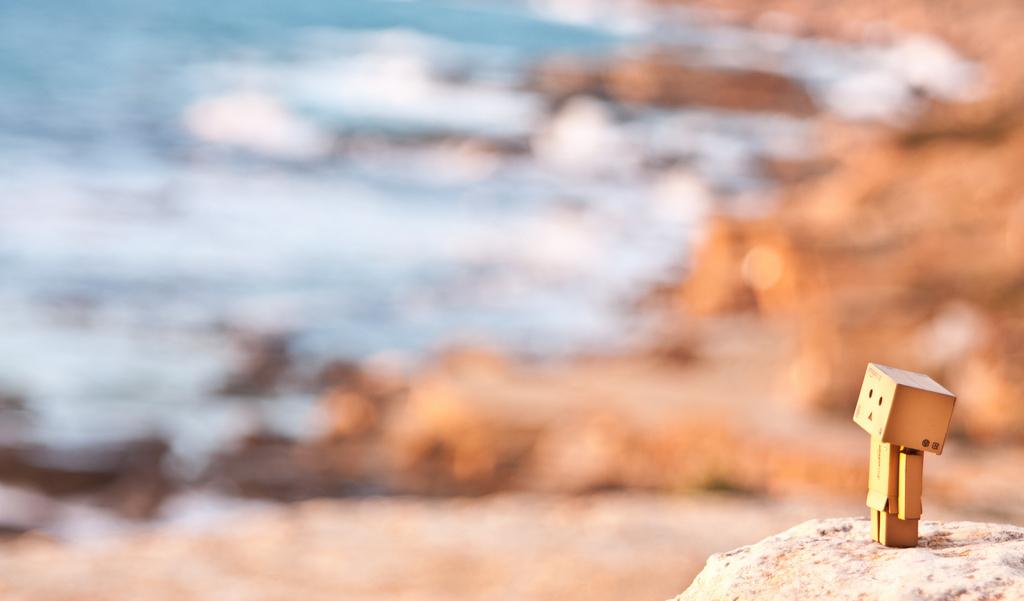
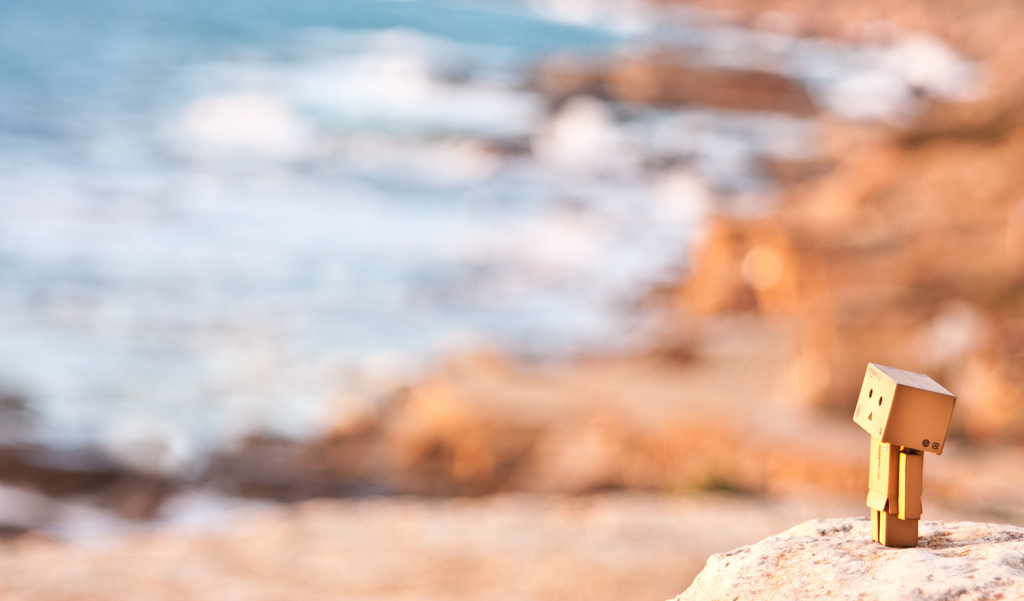
templates/usher/sign_up: change the beg text
Clarify our text on why we are asking for money, even though we suck.

I also lightened up the image a bit to make it easier to read.

Changed region(s): [[0.0312, 0.4493, 0.4688, 0.8087], [0.0625, 0.1797, 0.4688, 0.2995]]

diff --git a/templates/usher/sign_up.html b/templates/usher/sign_up.html
@@ -45,11 +45,19 @@
           <div class="span6 offset1">
             <h1>Almost done!</h1>
             <p>Our squirrels are importing your Google Reader feeds as we speak.</p>
-            <p><b>Why are you charging money?</b></p>
+            <p><b>Why do you need my credit card?</b></p>
 
-            <p>Your most precious resources are your time and attention. By
-            paying for ReadRaven, you are signing up for a service that is
-            built to last and built to protect your privacy.</p>
+            <p>ReadRaven is free during our beta period, which will last until
+            we are no longer embarrassed with our feature set and the slowness
+            of our site. And right now, we know we're kinda sucky. Trust us,
+            we know.</p>
+
+            <p>But just as we are making a long-term commitment to you,
+            we're asking for a small bit of reciprocity, letting us know you
+            share our values and long-term vision.</p>
+
+            <p>Your most precious resources are your time and attention.
+            ReadRaven is designed to preserve them for you, forever.</p>
 
             <p><a href="{%url 'raven.views.values' %}"><b>Read more about our values »</b></a></p>
             <br>

diff --git a/static/css/usher2.css b/static/css/usher2.css
@@ -12,21 +12,21 @@ body#index {
         position: static;
         left: -2px;
         top: 0px;
-        background-color: rgba(240,240,240,0.3);
+        background-color: rgba(240,240,240,0.5);
         margin-top: 5%;
         padding: 50px 40px;
     }
-        body#index div.page-wrapper div.container-fluid {
-            padding-right: 20px;
-            padding-left: 20px;
-        }
+    body#index div.page-wrapper div.container-fluid {
+        padding-right: 20px;
+        padding-left: 20px;
+    }
     body#index legend {
-	font-size: 14px;
+        font-size: 14px;
     }
     body#index .control-group {
-      display: inline-block;
-      vertical-align: top;
+        display: inline-block;
+        vertical-align: top;
     }
     body#index label {
-	font-size: 12px;
-	}
+        font-size: 12px;
+    }
